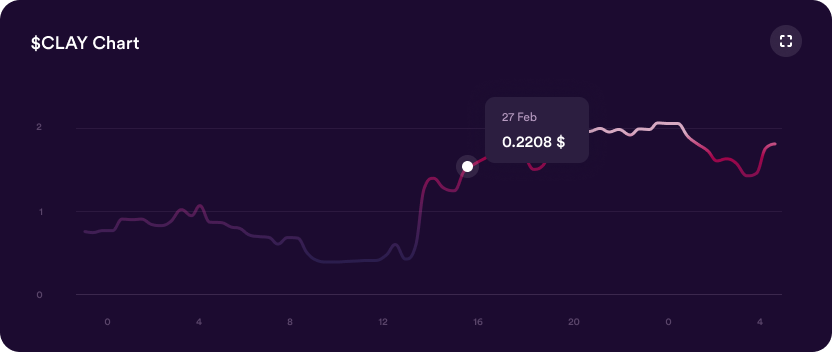
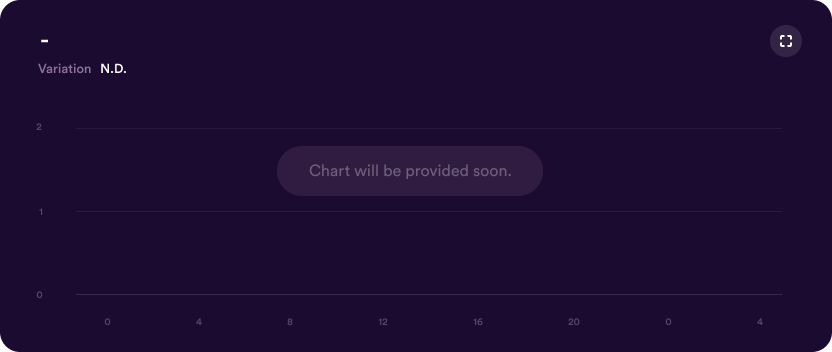
feat: :sparkles: redesigned fantoken page to match available data

diff --git a/src/components/pages/FanToken.vue b/src/components/pages/FanToken.vue
@@ -21,6 +21,7 @@ import ImagePair from "../ImagePair.vue"
 import usePools from "@/store/pools"
 import { Pool } from "@/types"
 import { useRoute } from "vue-router"
+import WorkInProgress from "../WorkInProgress.vue"
 
 const poolsStore = usePools()
 const route = useRoute()
@@ -144,33 +145,25 @@ onUnmounted(() => {
 			class="absolute-top full-width -z-1 hv-3/5 !bg-cover"
 			:style="topImageStyle"
 		></div>
-		<div class="row q-mb-60">
+		<div class="row q-mb-70">
 			<div class="col-8 col-md-4">
-				<div class="flex q-mb-60 items-center">
+				<div class="flex q-mb-60 items-start">
 					<q-avatar size="120px" class="q-mr-40">
 						<img :src="coin.iconUrl" alt="" />
 					</q-avatar>
 					<div>
-						<p class="text-dark q-mb-8 fs-21">
+						<p class="text-dark q-mb-18 fs-21">
 							{{ coin.name }}
 						</p>
-						<p class="fs-54">
+						<p class="fs-60 q-mb-20">
 							{{ coin.symbol }}
 						</p>
-					</div>
-				</div>
-				<div class="flex">
-					<div class="q-mr-10">
-						<OutlineButton>Swap Tokens</OutlineButton>
-					</div>
-					<div>
-						<StandardButton>Add/Remove Liquidity</StandardButton>
+						<p class="text-dark fs-16 text-uppercase q-mb-16">Price</p>
+						<p class="fs-32">$ {{ smallNumber(coin.price) }}</p>
 					</div>
 				</div>
 			</div>
 			<div class="col-8 col-md-4 column items-end">
-				<p class="text-dark fs-12 text-uppercase q-mb-10">Price</p>
-				<p class="fs-44 q-mb-12">$ {{ smallNumber(coin.price) }}</p>
 				<!-- <div class="flex items-center q-mb-42">
 					<StandardSelect
 						color="dark"
@@ -181,11 +174,13 @@ onUnmounted(() => {
 					<p class="fs-24">{{ percentage(coin.lastDayGain) }} %</p>
 				</div> -->
 				<div class="flex">
-					<div>
-						<p class="fs-12 text-dark q-mb-10 text-uppercase text-right">
-							Avg pool APR
+					<div class="column items-end">
+						<p class="fs-16 text-dark q-mb-12 text-uppercase text-right">
+							{{ coin.symbol }}
 						</p>
-						<p class="fs-32">{{ percentage(34.45) }} %</p>
+						<p class="fs-44 q-mb-12">100,345.34</p>
+						<p class="fs-21 text-dark text-right q-mb-33">9,234.29 $</p>
+						<LargeButton fit>Swap Tokens</LargeButton>
 					</div>
 					<!-- <div>
 						<p class="fs-12 text-dark q-mb-10 text-uppercase text-right">Backers</p>
@@ -197,7 +192,7 @@ onUnmounted(() => {
 		<Tabs :options="tabs">
 			<template v-slot:info> </template>
 			<template v-slot:analytics>
-				<!-- <p class="fs-16 opacity-30 q-mb-12">Token</p>
+				<p class="fs-16 opacity-30 q-mb-12">Token</p>
 				<div class="flex justify-between items-center q-mb-30">
 					<p class="fs-32 font-weight-bold">
 						{{ coin.symbol }}
@@ -212,11 +207,11 @@ onUnmounted(() => {
 							rounded
 							class="bg-dark-light fs-12 opacity-40 text-lowercase"
 						>
-							<q-btn label="daily" class="opacity-100 q-pl-30 q-py-8" />
-							<q-btn label="weekly" />
-							<q-btn label="monthly" />
-							<q-btn label="ytd" />
-							<q-btn label="all" class="q-pr-30 q-py-8" />
+							<q-btn label="daily" class="opacity-100q-px-10 q-pl-12 q-py-8" />
+							<q-btn label="weekly" class="q-px-10 " />
+							<q-btn label="monthly" class="q-px-10 " />
+							<q-btn label="ytd" class="q-px-10 " />
+							<q-btn label="all" class="q-px-10 q-pr-12 q-py-8" />
 						</q-btn-group>
 					</div>
 				</div>
@@ -228,7 +223,7 @@ onUnmounted(() => {
 							class="full-width"
 						/>
 					</div>
-					<div class="col-8 col-md-4 col-lg-2">
+					<div class="col-8 col-md-4 col-lg-2 relative-position q-pr-10 q-pb-10">
 						<div class="flex justify-between q-mb-24">
 							<div>
 								<p class="fs-10 q-mb-12 text-uppercase opacity-60">min</p>
@@ -277,8 +272,11 @@ onUnmounted(() => {
 								></q-icon>
 							</div>
 						</div>
+						<WorkInProgress>
+							Price Data will be provided soon.
+						</WorkInProgress>
 					</div>
-				</div> -->
+				</div>
 				<div class="q-mb-52">
 					<p class="fs-16 opacity-30 q-mb-24">Tokenomics</p>
 					<div class="row q-col-gutter-xl">
@@ -292,7 +290,7 @@ onUnmounted(() => {
 				<div class="q-mb-52">
 					<p class="fs-16 opacity-30 q-mb-24">Pool Stats</p>
 					<div class="row q-col-gutter-xl">
-						<div class="col-8 col-lg-4">
+						<!-- <div class="col-8 col-lg-4">
 							<Card class="q-py-34">
 								<div class="flex justify-between items-stretch">
 									<div class="column justify-between">
@@ -304,8 +302,8 @@ onUnmounted(() => {
 									</div>
 								</div>
 							</Card>
-						</div>
-						<div v-for="n in 2" class="col-8 col-md-4 col-lg-2">
+						</div> -->
+						<div v-for="n in 3" class="col-8 col-md-4 col-lg-2">
 							<InfoCard header="$CLAY CIRCULATING " class="q-py-34">
 								{{ balancedCurrency(21600000) }}
 							</InfoCard>
@@ -364,7 +362,7 @@ onUnmounted(() => {
 							</div>
 						</div>
 					</div>
-					<div class="col-8 col-lg-4">
+					<!-- <div class="col-8 col-lg-4">
 						<p class="fs-16 opacity-30 q-mb-24">Community</p>
 						<Card class="q-mb-22" :padding="20">
 							<div class="flex justify-between items-stretch">
@@ -389,7 +387,7 @@ onUnmounted(() => {
 								</InfoCard>
 							</div>
 						</div>
-					</div>
+					</div> -->
 				</div>
 			</template>
 			<!-- <template v-slot:whitepaper>

diff --git a/src/css/components/work_in_progress.scss b/src/css/components/work_in_progress.scss
@@ -1,0 +1,36 @@
+.work-in-progress {
+  position: absolute;
+  left: 0;
+  right: 0;
+  top: 0;
+  bottom: 0;
+  backdrop-filter: blur(6px);
+  display: flex;
+  justify-content: center;
+  align-items: center;
+
+  > div {
+    position: relative;
+    padding: 12px 16px;
+
+    p {
+      font-weight: 400;
+      font-size: 14px;
+      line-height: 18px;
+      text-align: center;
+      color: #FFFFFF;
+      opacity: 0.3;
+    }
+
+    &::before {
+      content: "";
+      background: #301C40;
+      border-radius: 50px;
+      position: absolute;
+      left: 0;
+      right: 0;
+      bottom: 0;
+      top: 0;
+    }
+  }
+}

diff --git a/src/css/components/table.scss b/src/css/components/table.scss
@@ -26,6 +26,10 @@ $row-padding-x: 30px;
                     opacity: 1;
                 }
             }
+
+            .q-table__sort-icon {
+                margin-top: -3px;
+            }
         }
     
         tbody {

diff --git a/src/components/WorkInProgress.vue b/src/components/WorkInProgress.vue
@@ -1,0 +1,12 @@
+<script setup lang="ts">
+</script>
+
+<template>
+<div class="q-pl-40 work-in-progress">
+  <div>
+    <p>
+      <slot></slot>
+    </p>
+  </div>
+</div>
+</template>

diff --git a/src/css/components/index.scss b/src/css/components/index.scss
@@ -12,3 +12,4 @@
 @import "notification";
 @import "spinner";
 @import "tooltip";
+@import "work_in_progress";
